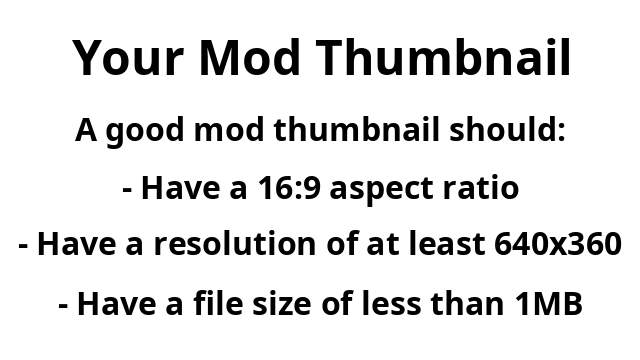
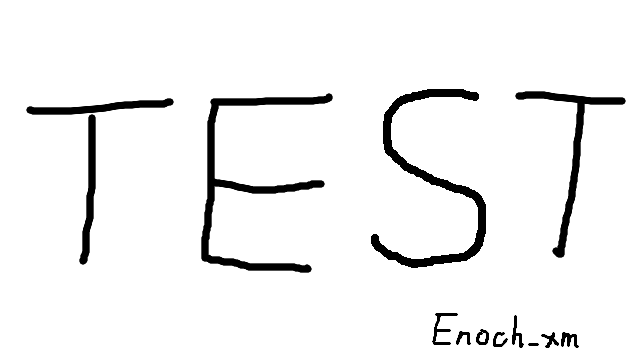
rename the modname

diff --git a/TEST.cs b/TEST.cs
@@ -1,0 +1,22 @@
+using System.Security.Permissions;
+using BepInEx;
+
+#pragma warning disable CS0618 // SecurityAction.RequestMinimum is obsolete. However, this does not apply to the mod, which still needs it. Suppress the warning indicating that it is obsolete.
+[assembly: SecurityPermission(SecurityAction.RequestMinimum, SkipVerification = true)]
+#pragma warning restore CS0618
+
+namespace YourModName
+{
+	[BepInPlugin(PLUGIN_GUID, PLUGIN_NAME, PLUGIN_VERSION)]
+	public class YourModNamePlugin : BaseUnityPlugin
+	{
+		public const string PLUGIN_GUID = "yourname.yourmodname";
+		public const string PLUGIN_NAME = "Your Mod Name";
+		public const string PLUGIN_VERSION = "0.1.0";
+
+		private void Awake()
+		{
+			Logger.LogInfo($"Hello Rain World from {PLUGIN_NAME}!");
+		}
+	}
+}
